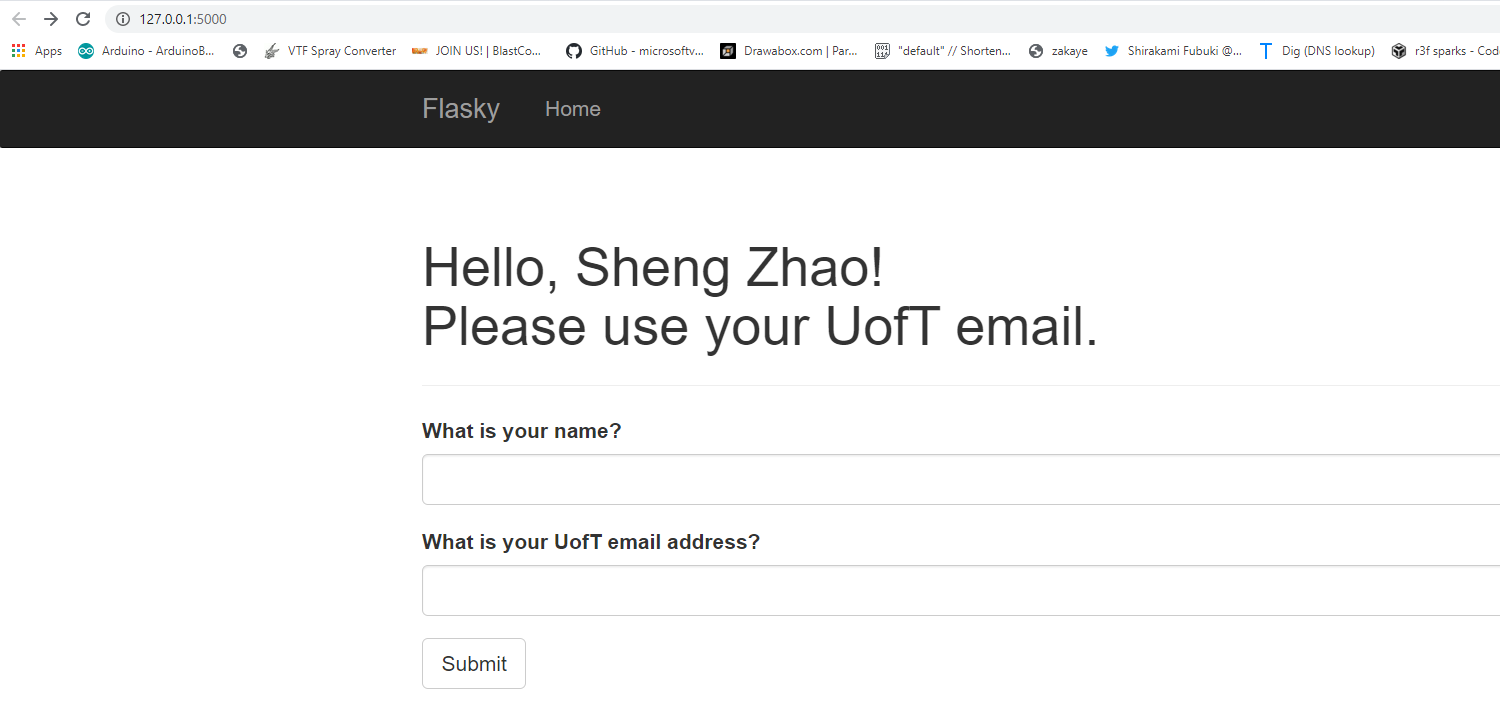
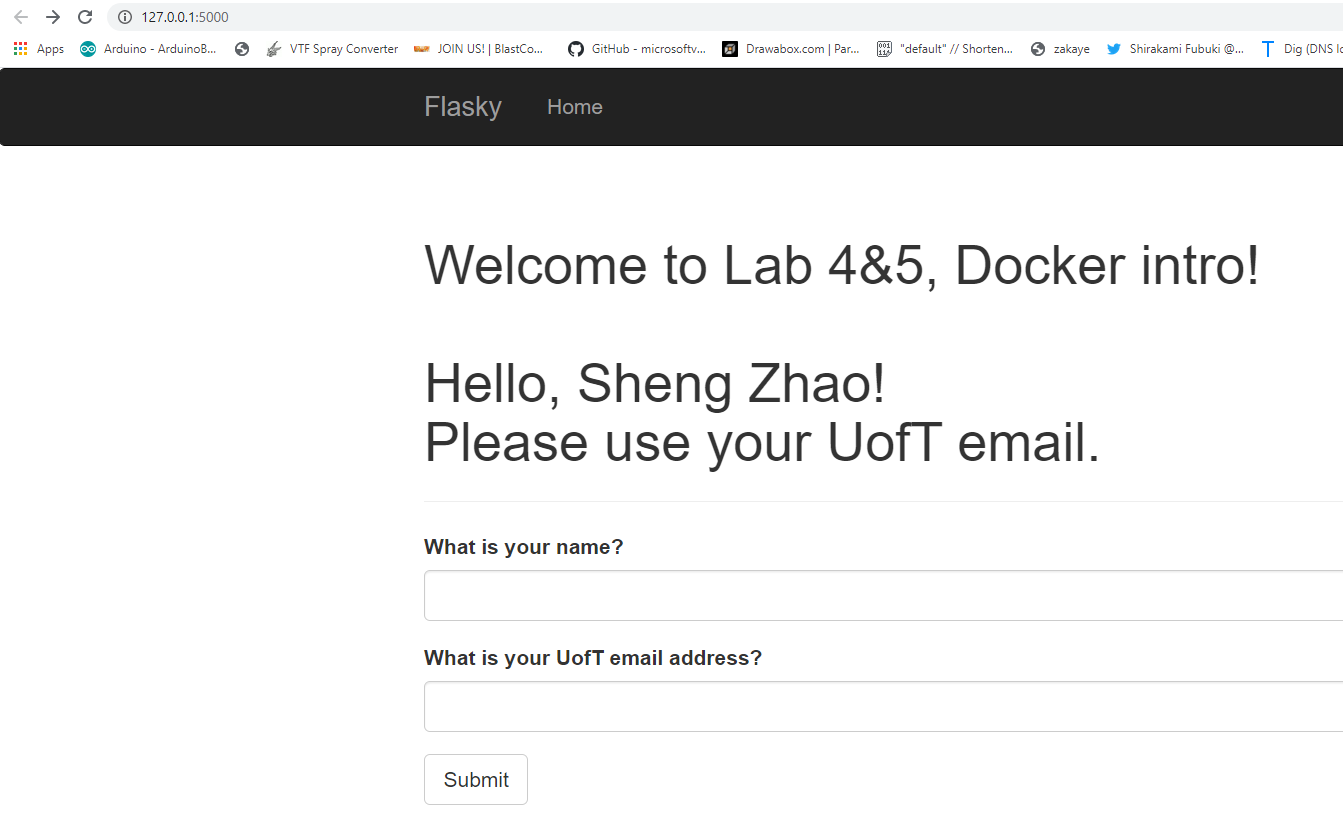
Added text to index html for lab4&5.

diff --git a/templates/index.html b/templates/index.html
@@ -4,6 +4,9 @@
 {% block page_content %}
 <div class="page-header">
     <h1>
+        Welcome to Lab 4&5, Docker intro!
+        <br/>
+        <br/>
         Hello, {% if name %}{{ name }}{% else %}Stranger{% endif %}! <br/>
         {% if email %}
             {% if valid_email %}
